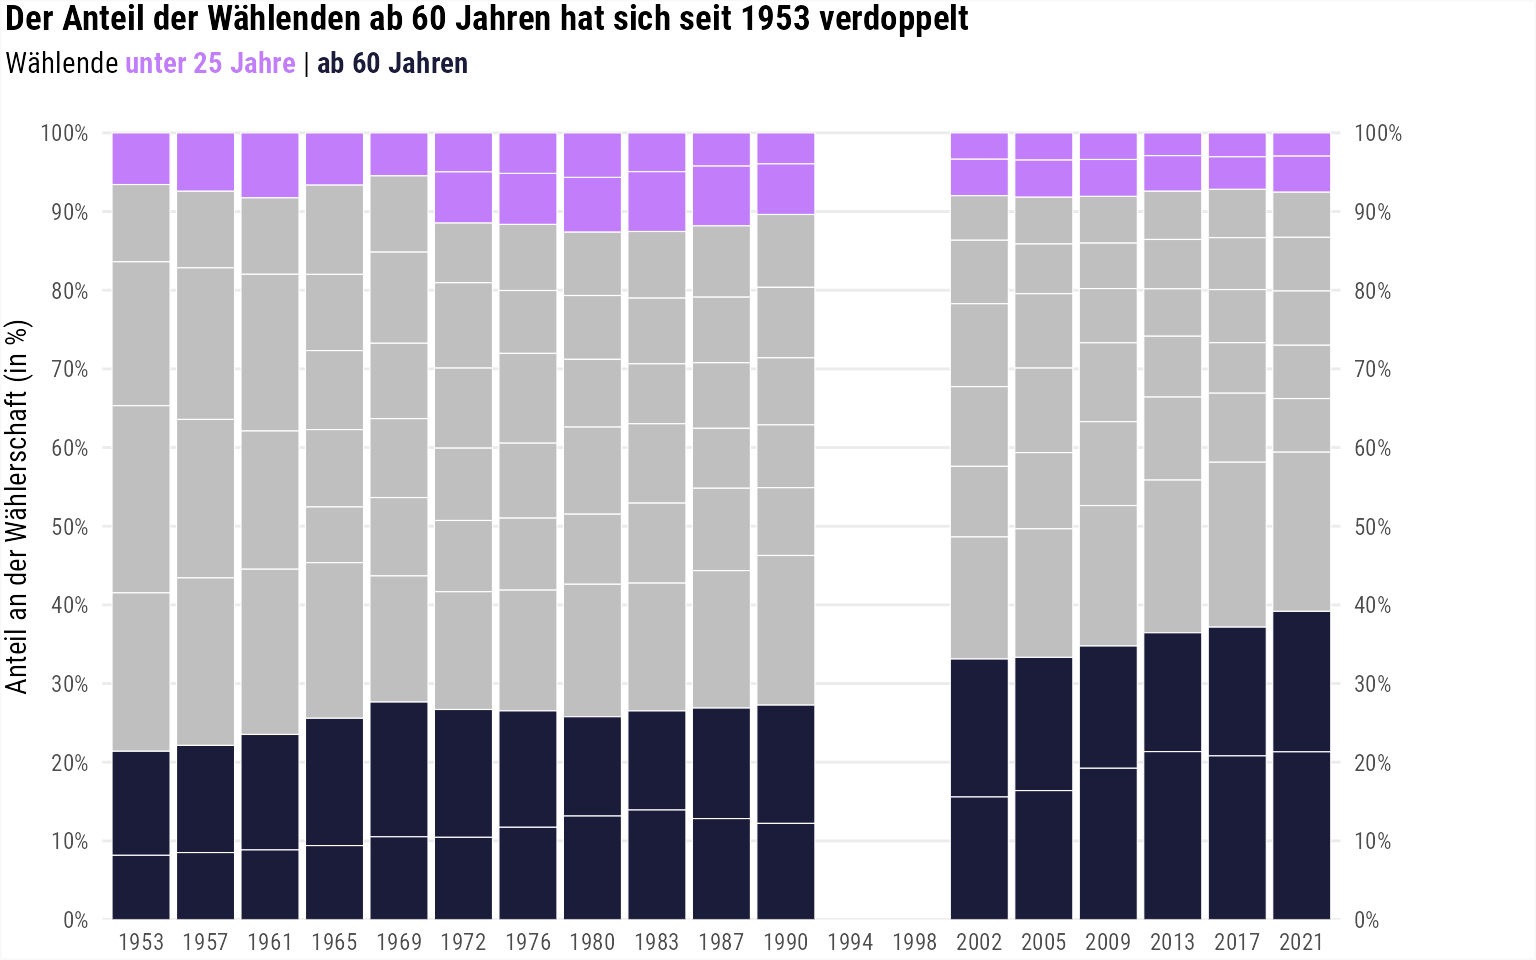
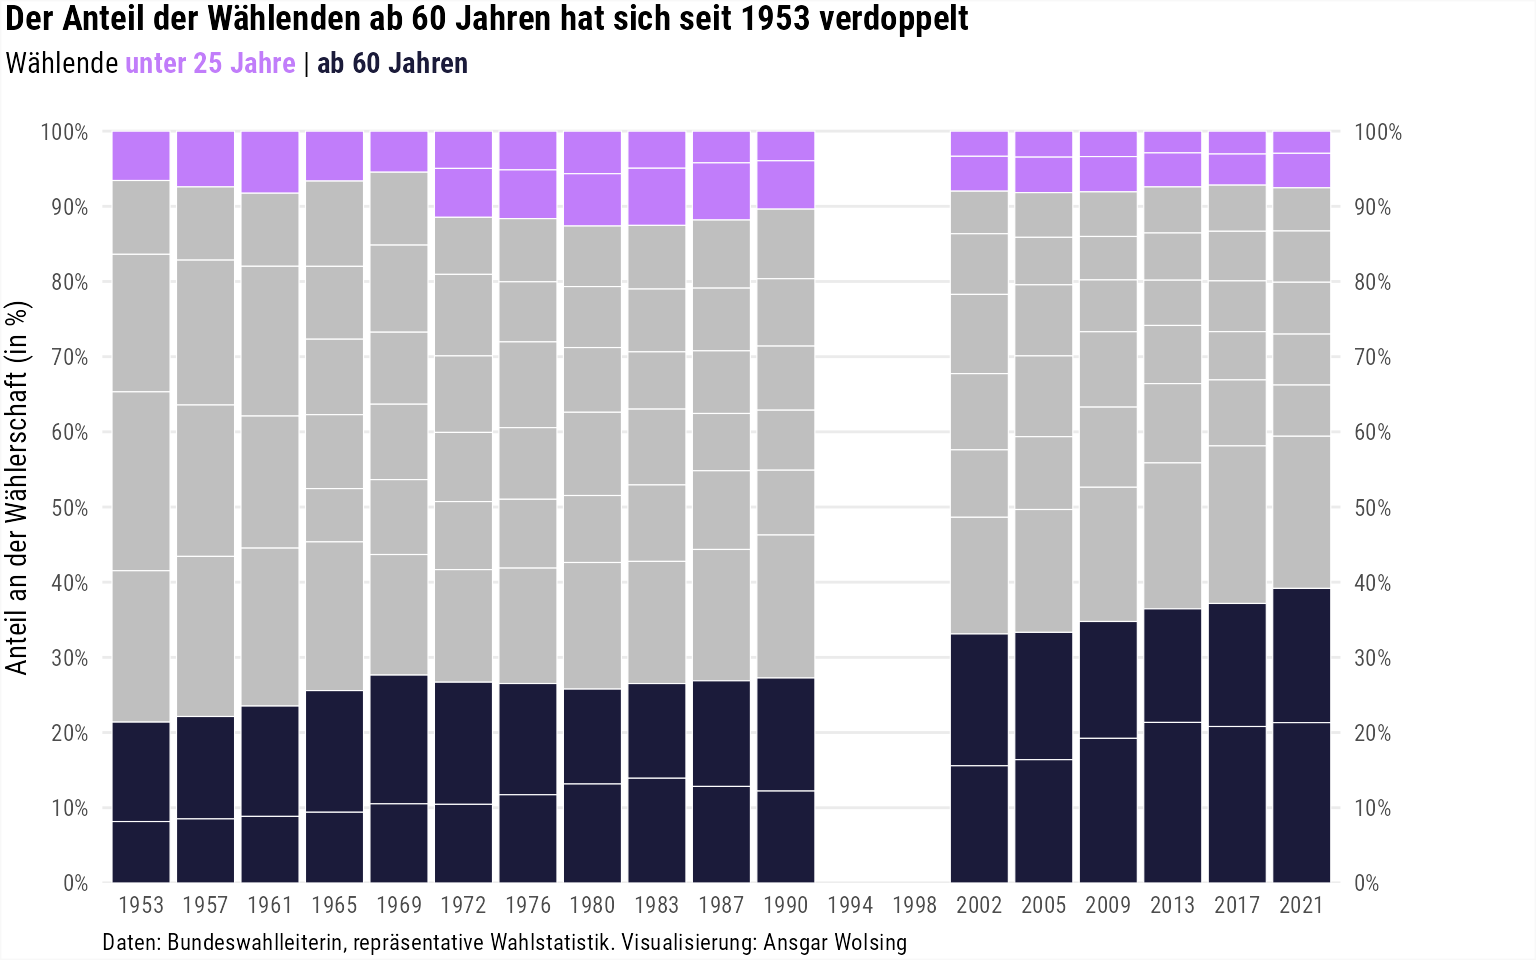
Titel + Theme

diff --git a/01-wahlbeteiligung/01-wahlbeteiligung.html b/01-wahlbeteiligung/01-wahlbeteiligung.html
@@ -157,7 +157,8 @@ pre > code.sourceCode > span > a:first-child::before { text-decoration: underlin
 <span id="cb3-16"><a href="#cb3-16" aria-hidden="true" tabindex="-1"></a>    <span class="at">linewidth =</span> <span class="fl">2.5</span>, <span class="at">lineend =</span> <span class="st">"square"</span></span>
 <span id="cb3-17"><a href="#cb3-17" aria-hidden="true" tabindex="-1"></a>  ) <span class="sc">+</span></span>
 <span id="cb3-18"><a href="#cb3-18" aria-hidden="true" tabindex="-1"></a>  <span class="fu">scale_color_gradient</span>(<span class="at">low =</span> <span class="st">"grey2"</span>, <span class="at">high =</span> <span class="st">"grey90"</span>) <span class="sc">+</span></span>
-<span id="cb3-19"><a href="#cb3-19" aria-hidden="true" tabindex="-1"></a>  <span class="fu">guides</span>(<span class="at">color =</span> <span class="st">"none"</span>)</span></code><button title="Copy to Clipboard" class="code-copy-button"><i class="bi"></i></button></pre></div>
+<span id="cb3-19"><a href="#cb3-19" aria-hidden="true" tabindex="-1"></a>  <span class="fu">guides</span>(<span class="at">color =</span> <span class="st">"none"</span>) <span class="sc">+</span></span>
+<span id="cb3-20"><a href="#cb3-20" aria-hidden="true" tabindex="-1"></a>  <span class="fu">labs</span>(<span class="at">x =</span> <span class="st">"Alter"</span>)</span></code><button title="Copy to Clipboard" class="code-copy-button"><i class="bi"></i></button></pre></div>
 </details>
 <div class="cell-output-display">
 <div>
@@ -211,8 +212,9 @@ pre > code.sourceCode > span > a:first-child::before { text-decoration: underlin
 <span id="cb5-24"><a href="#cb5-24" aria-hidden="true" tabindex="-1"></a>    <span class="at">subtitle =</span> <span class="st">"Wahlbeteiligung nach Altersgruppe und Geschlecht"</span>,</span>
 <span id="cb5-25"><a href="#cb5-25" aria-hidden="true" tabindex="-1"></a>    <span class="at">x =</span> <span class="st">"Altersgruppe"</span>,</span>
 <span id="cb5-26"><a href="#cb5-26" aria-hidden="true" tabindex="-1"></a>    <span class="at">y =</span> <span class="st">"Wahlbeteiligung (in %)"</span>,</span>
-<span id="cb5-27"><a href="#cb5-27" aria-hidden="true" tabindex="-1"></a>    <span class="at">fill =</span> <span class="st">"Geschlecht"</span></span>
-<span id="cb5-28"><a href="#cb5-28" aria-hidden="true" tabindex="-1"></a>  )</span></code><button title="Copy to Clipboard" class="code-copy-button"><i class="bi"></i></button></pre></div>
+<span id="cb5-27"><a href="#cb5-27" aria-hidden="true" tabindex="-1"></a>    <span class="at">fill =</span> <span class="st">"Geschlecht"</span>,</span>
+<span id="cb5-28"><a href="#cb5-28" aria-hidden="true" tabindex="-1"></a>    <span class="at">caption =</span> <span class="st">"Daten: Bundeswahlleiterin, repräsentative Wahlstatistik. Visualisierung: Ansgar Wolsing"</span></span>
+<span id="cb5-29"><a href="#cb5-29" aria-hidden="true" tabindex="-1"></a>  )</span></code><button title="Copy to Clipboard" class="code-copy-button"><i class="bi"></i></button></pre></div>
 </details>
 <div class="cell-output-display">
 <div>
@@ -253,8 +255,9 @@ pre > code.sourceCode > span > a:first-child::before { text-decoration: underlin
 <span id="cb6-25"><a href="#cb6-25" aria-hidden="true" tabindex="-1"></a>    <span class="at">subtitle =</span> <span class="st">"Wahlbeteiligung nach Altersgruppe und Geschlecht"</span>,</span>
 <span id="cb6-26"><a href="#cb6-26" aria-hidden="true" tabindex="-1"></a>    <span class="at">x =</span> <span class="st">"Altersgruppe"</span>,</span>
 <span id="cb6-27"><a href="#cb6-27" aria-hidden="true" tabindex="-1"></a>    <span class="at">y =</span> <span class="st">"Wahlbeteiligung (in %)"</span>,</span>
-<span id="cb6-28"><a href="#cb6-28" aria-hidden="true" tabindex="-1"></a>    <span class="at">fill =</span> <span class="st">"Geschlecht"</span></span>
-<span id="cb6-29"><a href="#cb6-29" aria-hidden="true" tabindex="-1"></a>  )</span></code><button title="Copy to Clipboard" class="code-copy-button"><i class="bi"></i></button></pre></div>
+<span id="cb6-28"><a href="#cb6-28" aria-hidden="true" tabindex="-1"></a>    <span class="at">fill =</span> <span class="st">"Geschlecht"</span>,</span>
+<span id="cb6-29"><a href="#cb6-29" aria-hidden="true" tabindex="-1"></a>    <span class="at">caption =</span> <span class="st">"Daten: Bundeswahlleiterin, repräsentative Wahlstatistik. Visualisierung: Ansgar Wolsing"</span></span>
+<span id="cb6-30"><a href="#cb6-30" aria-hidden="true" tabindex="-1"></a>  )</span></code><button title="Copy to Clipboard" class="code-copy-button"><i class="bi"></i></button></pre></div>
 </details>
 <div class="cell-output-display">
 <div>
@@ -269,26 +272,26 @@ pre > code.sourceCode > span > a:first-child::before { text-decoration: underlin
 <summary>Code</summary>
 <div class="sourceCode cell-code" id="cb7"><pre class="sourceCode r code-with-copy"><code class="sourceCode r"><span id="cb7-1"><a href="#cb7-1" aria-hidden="true" tabindex="-1"></a>p <span class="ot">&lt;-</span> df_wbt_total_ab1972 <span class="sc">|&gt;</span> </span>
 <span id="cb7-2"><a href="#cb7-2" aria-hidden="true" tabindex="-1"></a>  <span class="fu">filter</span>(altersgruppe <span class="sc">!=</span> <span class="st">"Summe"</span>, geschlecht <span class="sc">==</span> <span class="st">"Summe"</span>) <span class="sc">|&gt;</span> </span>
-<span id="cb7-3"><a href="#cb7-3" aria-hidden="true" tabindex="-1"></a>  <span class="co"># mutate(wahl = factor(wahl)) |&gt; </span></span>
-<span id="cb7-4"><a href="#cb7-4" aria-hidden="true" tabindex="-1"></a>  <span class="fu">ggplot</span>(<span class="fu">aes</span>(altersgruppe, wahlbeteiligung, <span class="at">group =</span> wahl)) <span class="sc">+</span></span>
-<span id="cb7-5"><a href="#cb7-5" aria-hidden="true" tabindex="-1"></a>  <span class="fu">geom_line</span>(<span class="at">color =</span> <span class="st">"purple"</span>, <span class="at">linewidth =</span> <span class="fl">1.2</span>) <span class="sc">+</span></span>
-<span id="cb7-6"><a href="#cb7-6" aria-hidden="true" tabindex="-1"></a>  <span class="fu">geom_point</span>(</span>
-<span id="cb7-7"><a href="#cb7-7" aria-hidden="true" tabindex="-1"></a>    <span class="at">shape =</span> <span class="dv">21</span>, <span class="at">fill =</span> <span class="st">"white"</span>, <span class="at">color =</span> <span class="st">"purple"</span></span>
-<span id="cb7-8"><a href="#cb7-8" aria-hidden="true" tabindex="-1"></a>  ) <span class="sc">+</span></span>
-<span id="cb7-9"><a href="#cb7-9" aria-hidden="true" tabindex="-1"></a>  <span class="fu">geom_text</span>(</span>
-<span id="cb7-10"><a href="#cb7-10" aria-hidden="true" tabindex="-1"></a>    <span class="at">data =</span> <span class="sc">~</span><span class="fu">subset</span>(., altersgruppe <span class="sc">==</span> <span class="fu">max</span>(altersgruppe)),</span>
-<span id="cb7-11"><a href="#cb7-11" aria-hidden="true" tabindex="-1"></a>    <span class="fu">aes</span>(<span class="at">x =</span> altersgruppe, </span>
-<span id="cb7-12"><a href="#cb7-12" aria-hidden="true" tabindex="-1"></a>        <span class="at">y =</span> wahlbeteiligung,</span>
-<span id="cb7-13"><a href="#cb7-13" aria-hidden="true" tabindex="-1"></a>        <span class="at">label =</span> wahl), </span>
-<span id="cb7-14"><a href="#cb7-14" aria-hidden="true" tabindex="-1"></a>    <span class="at">color =</span> <span class="st">"purple"</span>, <span class="at">hjust =</span> <span class="dv">0</span>, <span class="at">nudge_x =</span> <span class="fl">0.1</span>, <span class="at">family =</span> <span class="st">"Roboto Condensed"</span>, <span class="at">size =</span> <span class="dv">5</span>,</span>
-<span id="cb7-15"><a href="#cb7-15" aria-hidden="true" tabindex="-1"></a>    <span class="at">fontface =</span> <span class="st">"bold"</span></span>
-<span id="cb7-16"><a href="#cb7-16" aria-hidden="true" tabindex="-1"></a>  ) <span class="sc">+</span></span>
-<span id="cb7-17"><a href="#cb7-17" aria-hidden="true" tabindex="-1"></a>  <span class="fu">scale_x_discrete</span>(<span class="at">position =</span> <span class="st">"top"</span>, <span class="at">expand =</span> <span class="fu">expansion</span>(<span class="at">add =</span> <span class="fu">c</span>(<span class="fl">0.3</span>, <span class="fl">0.8</span>))) <span class="sc">+</span></span>
-<span id="cb7-18"><a href="#cb7-18" aria-hidden="true" tabindex="-1"></a>  <span class="fu">scale_y_continuous</span>(<span class="at">labels =</span> <span class="cf">function</span>(x) <span class="fu">paste</span>(x, <span class="st">"%"</span>)) <span class="sc">+</span></span>
-<span id="cb7-19"><a href="#cb7-19" aria-hidden="true" tabindex="-1"></a>  <span class="fu">coord_cartesian</span>(<span class="at">clip =</span> <span class="st">"off"</span>) <span class="sc">+</span></span>
-<span id="cb7-20"><a href="#cb7-20" aria-hidden="true" tabindex="-1"></a>  <span class="fu">labs</span>(</span>
-<span id="cb7-21"><a href="#cb7-21" aria-hidden="true" tabindex="-1"></a>    <span class="at">x =</span> <span class="st">"Altersgruppe"</span>,</span>
-<span id="cb7-22"><a href="#cb7-22" aria-hidden="true" tabindex="-1"></a>    <span class="at">y =</span> <span class="st">"Wahlbeteiligung (in %)"</span>,</span>
+<span id="cb7-3"><a href="#cb7-3" aria-hidden="true" tabindex="-1"></a>  <span class="fu">ggplot</span>(<span class="fu">aes</span>(altersgruppe, wahlbeteiligung, <span class="at">group =</span> wahl)) <span class="sc">+</span></span>
+<span id="cb7-4"><a href="#cb7-4" aria-hidden="true" tabindex="-1"></a>  <span class="fu">geom_line</span>(<span class="at">color =</span> color_pal[<span class="dv">1</span>], <span class="at">linewidth =</span> <span class="fl">1.2</span>) <span class="sc">+</span></span>
+<span id="cb7-5"><a href="#cb7-5" aria-hidden="true" tabindex="-1"></a>  <span class="fu">geom_point</span>(</span>
+<span id="cb7-6"><a href="#cb7-6" aria-hidden="true" tabindex="-1"></a>    <span class="at">shape =</span> <span class="dv">21</span>, <span class="at">fill =</span> <span class="st">"white"</span>, <span class="at">color =</span> color_pal[<span class="dv">1</span>]</span>
+<span id="cb7-7"><a href="#cb7-7" aria-hidden="true" tabindex="-1"></a>  ) <span class="sc">+</span></span>
+<span id="cb7-8"><a href="#cb7-8" aria-hidden="true" tabindex="-1"></a>  <span class="fu">geom_text</span>(</span>
+<span id="cb7-9"><a href="#cb7-9" aria-hidden="true" tabindex="-1"></a>    <span class="at">data =</span> <span class="sc">~</span><span class="fu">subset</span>(., altersgruppe <span class="sc">==</span> <span class="fu">max</span>(altersgruppe)),</span>
+<span id="cb7-10"><a href="#cb7-10" aria-hidden="true" tabindex="-1"></a>    <span class="fu">aes</span>(<span class="at">x =</span> altersgruppe, </span>
+<span id="cb7-11"><a href="#cb7-11" aria-hidden="true" tabindex="-1"></a>        <span class="at">y =</span> wahlbeteiligung,</span>
+<span id="cb7-12"><a href="#cb7-12" aria-hidden="true" tabindex="-1"></a>        <span class="at">label =</span> wahl), </span>
+<span id="cb7-13"><a href="#cb7-13" aria-hidden="true" tabindex="-1"></a>    <span class="at">color =</span> color_pal[<span class="dv">1</span>], <span class="at">hjust =</span> <span class="dv">0</span>, <span class="at">nudge_x =</span> <span class="fl">0.1</span>, <span class="at">family =</span> <span class="st">"Roboto Condensed"</span>, <span class="at">size =</span> <span class="dv">5</span>,</span>
+<span id="cb7-14"><a href="#cb7-14" aria-hidden="true" tabindex="-1"></a>    <span class="at">fontface =</span> <span class="st">"bold"</span></span>
+<span id="cb7-15"><a href="#cb7-15" aria-hidden="true" tabindex="-1"></a>  ) <span class="sc">+</span></span>
+<span id="cb7-16"><a href="#cb7-16" aria-hidden="true" tabindex="-1"></a>  <span class="fu">scale_x_discrete</span>(<span class="at">position =</span> <span class="st">"top"</span>, <span class="at">expand =</span> <span class="fu">expansion</span>(<span class="at">add =</span> <span class="fu">c</span>(<span class="fl">0.3</span>, <span class="fl">0.8</span>))) <span class="sc">+</span></span>
+<span id="cb7-17"><a href="#cb7-17" aria-hidden="true" tabindex="-1"></a>  <span class="fu">scale_y_continuous</span>(<span class="at">labels =</span> <span class="cf">function</span>(x) <span class="fu">paste</span>(x, <span class="st">"%"</span>)) <span class="sc">+</span></span>
+<span id="cb7-18"><a href="#cb7-18" aria-hidden="true" tabindex="-1"></a>  <span class="fu">coord_cartesian</span>(<span class="at">clip =</span> <span class="st">"off"</span>) <span class="sc">+</span></span>
+<span id="cb7-19"><a href="#cb7-19" aria-hidden="true" tabindex="-1"></a>  <span class="fu">labs</span>(</span>
+<span id="cb7-20"><a href="#cb7-20" aria-hidden="true" tabindex="-1"></a>    <span class="at">x =</span> <span class="st">"Altersgruppe"</span>,</span>
+<span id="cb7-21"><a href="#cb7-21" aria-hidden="true" tabindex="-1"></a>    <span class="at">y =</span> <span class="st">"Wahlbeteiligung (in %)"</span>,</span>
+<span id="cb7-22"><a href="#cb7-22" aria-hidden="true" tabindex="-1"></a>    <span class="at">caption =</span> <span class="st">"Daten: Bundeswahlleiterin, repräsentative Wahlstatistik. Visualisierung: Ansgar Wolsing"</span></span>
 <span id="cb7-23"><a href="#cb7-23" aria-hidden="true" tabindex="-1"></a>  ) <span class="sc">+</span> </span>
 <span id="cb7-24"><a href="#cb7-24" aria-hidden="true" tabindex="-1"></a>  <span class="fu">theme_custom_gif</span>()</span>
 <span id="cb7-25"><a href="#cb7-25" aria-hidden="true" tabindex="-1"></a></span>
@@ -349,22 +352,24 @@ pre > code.sourceCode > span > a:first-child::before { text-decoration: underlin
 <span id="cb8-32"><a href="#cb8-32" aria-hidden="true" tabindex="-1"></a>  <span class="fu">coord_cartesian</span>(<span class="at">ylim =</span> <span class="fu">c</span>(<span class="dv">50</span>, <span class="dv">100</span>), <span class="at">clip =</span> <span class="st">"off"</span>) <span class="sc">+</span></span>
 <span id="cb8-33"><a href="#cb8-33" aria-hidden="true" tabindex="-1"></a>  <span class="fu">guides</span>(<span class="at">color =</span> <span class="st">"none"</span>) <span class="sc">+</span></span>
 <span id="cb8-34"><a href="#cb8-34" aria-hidden="true" tabindex="-1"></a>  <span class="fu">labs</span>(</span>
-<span id="cb8-35"><a href="#cb8-35" aria-hidden="true" tabindex="-1"></a>    <span class="at">x =</span> <span class="st">"Altersgruppe"</span>,</span>
-<span id="cb8-36"><a href="#cb8-36" aria-hidden="true" tabindex="-1"></a>    <span class="at">y =</span> <span class="st">"Wahlbeteiligung (in %)"</span>,</span>
-<span id="cb8-37"><a href="#cb8-37" aria-hidden="true" tabindex="-1"></a>  ) <span class="sc">+</span></span>
-<span id="cb8-38"><a href="#cb8-38" aria-hidden="true" tabindex="-1"></a>  <span class="fu">theme_custom_gif</span>()</span>
-<span id="cb8-39"><a href="#cb8-39" aria-hidden="true" tabindex="-1"></a></span>
-<span id="cb8-40"><a href="#cb8-40" aria-hidden="true" tabindex="-1"></a>p_anim <span class="ot">&lt;-</span> p <span class="sc">+</span></span>
-<span id="cb8-41"><a href="#cb8-41" aria-hidden="true" tabindex="-1"></a>  <span class="fu">transition_states</span>(wahl) <span class="sc">+</span></span>
-<span id="cb8-42"><a href="#cb8-42" aria-hidden="true" tabindex="-1"></a>  <span class="fu">shadow_mark</span>(<span class="at">past =</span> <span class="cn">TRUE</span>, <span class="at">future =</span> <span class="cn">FALSE</span>, </span>
-<span id="cb8-43"><a href="#cb8-43" aria-hidden="true" tabindex="-1"></a>              <span class="at">alpha =</span> <span class="fl">0.2</span>, <span class="at">linewidth =</span> <span class="fl">0.33</span>, </span>
-<span id="cb8-44"><a href="#cb8-44" aria-hidden="true" tabindex="-1"></a>              <span class="co"># Jahreszahlen nicht mitführen</span></span>
-<span id="cb8-45"><a href="#cb8-45" aria-hidden="true" tabindex="-1"></a>              <span class="at">exclude_layer =</span> <span class="fu">c</span>(<span class="dv">2</span>, <span class="dv">3</span>, <span class="dv">4</span>))</span>
-<span id="cb8-46"><a href="#cb8-46" aria-hidden="true" tabindex="-1"></a></span>
-<span id="cb8-47"><a href="#cb8-47" aria-hidden="true" tabindex="-1"></a></span>
-<span id="cb8-48"><a href="#cb8-48" aria-hidden="true" tabindex="-1"></a>n_wahlen <span class="ot">&lt;-</span> <span class="fu">length</span>(<span class="fu">unique</span>(df_wbt_total_ab1972<span class="sc">$</span>wahl))</span>
+<span id="cb8-35"><a href="#cb8-35" aria-hidden="true" tabindex="-1"></a>    <span class="at">title =</span> <span class="st">"Wahlbeteiligung nach Geschlecht und Altersgruppe"</span>,</span>
+<span id="cb8-36"><a href="#cb8-36" aria-hidden="true" tabindex="-1"></a>    <span class="at">caption =</span> <span class="st">"Daten: Bundeswahlleiterin, repräsentative Wahlstatistik. Visualisierung: Ansgar Wolsing"</span>,</span>
+<span id="cb8-37"><a href="#cb8-37" aria-hidden="true" tabindex="-1"></a>    <span class="at">x =</span> <span class="st">"Altersgruppe"</span>,</span>
+<span id="cb8-38"><a href="#cb8-38" aria-hidden="true" tabindex="-1"></a>    <span class="at">y =</span> <span class="st">"Wahlbeteiligung (in %)"</span>,</span>
+<span id="cb8-39"><a href="#cb8-39" aria-hidden="true" tabindex="-1"></a>  ) <span class="sc">+</span></span>
+<span id="cb8-40"><a href="#cb8-40" aria-hidden="true" tabindex="-1"></a>  <span class="fu">theme_custom_gif</span>()</span>
+<span id="cb8-41"><a href="#cb8-41" aria-hidden="true" tabindex="-1"></a></span>
+<span id="cb8-42"><a href="#cb8-42" aria-hidden="true" tabindex="-1"></a>p_anim <span class="ot">&lt;-</span> p <span class="sc">+</span></span>
+<span id="cb8-43"><a href="#cb8-43" aria-hidden="true" tabindex="-1"></a>  <span class="fu">transition_states</span>(wahl) <span class="sc">+</span></span>
+<span id="cb8-44"><a href="#cb8-44" aria-hidden="true" tabindex="-1"></a>  <span class="fu">shadow_mark</span>(<span class="at">past =</span> <span class="cn">TRUE</span>, <span class="at">future =</span> <span class="cn">FALSE</span>, </span>
+<span id="cb8-45"><a href="#cb8-45" aria-hidden="true" tabindex="-1"></a>              <span class="at">alpha =</span> <span class="fl">0.2</span>, <span class="at">linewidth =</span> <span class="fl">0.33</span>, </span>
+<span id="cb8-46"><a href="#cb8-46" aria-hidden="true" tabindex="-1"></a>              <span class="co"># Jahreszahlen nicht mitführen</span></span>
+<span id="cb8-47"><a href="#cb8-47" aria-hidden="true" tabindex="-1"></a>              <span class="at">exclude_layer =</span> <span class="fu">c</span>(<span class="dv">2</span>, <span class="dv">3</span>, <span class="dv">4</span>))</span>
+<span id="cb8-48"><a href="#cb8-48" aria-hidden="true" tabindex="-1"></a></span>
 <span id="cb8-49"><a href="#cb8-49" aria-hidden="true" tabindex="-1"></a></span>
-<span id="cb8-50"><a href="#cb8-50" aria-hidden="true" tabindex="-1"></a><span class="fu">animate</span>(p_anim, <span class="at">fps =</span> <span class="dv">10</span>, <span class="at">nframes =</span> <span class="dv">100</span>, <span class="at">end_pause =</span> <span class="dv">12</span>, <span class="at">rewind =</span> <span class="cn">FALSE</span>)</span></code><button title="Copy to Clipboard" class="code-copy-button"><i class="bi"></i></button></pre></div>
+<span id="cb8-50"><a href="#cb8-50" aria-hidden="true" tabindex="-1"></a>n_wahlen <span class="ot">&lt;-</span> <span class="fu">length</span>(<span class="fu">unique</span>(df_wbt_total_ab1972<span class="sc">$</span>wahl))</span>
+<span id="cb8-51"><a href="#cb8-51" aria-hidden="true" tabindex="-1"></a></span>
+<span id="cb8-52"><a href="#cb8-52" aria-hidden="true" tabindex="-1"></a><span class="fu">animate</span>(p_anim, <span class="at">fps =</span> <span class="dv">10</span>, <span class="at">nframes =</span> <span class="dv">100</span>, <span class="at">end_pause =</span> <span class="dv">12</span>, <span class="at">rewind =</span> <span class="cn">FALSE</span>)</span></code><button title="Copy to Clipboard" class="code-copy-button"><i class="bi"></i></button></pre></div>
 </details>
 <div class="cell-output-display">
 <div>
@@ -428,15 +433,16 @@ pre > code.sourceCode > span > a:first-child::before { text-decoration: underlin
 <span id="cb10-28"><a href="#cb10-28" aria-hidden="true" tabindex="-1"></a>  <span class="fu">labs</span>(</span>
 <span id="cb10-29"><a href="#cb10-29" aria-hidden="true" tabindex="-1"></a>    <span class="at">title =</span> <span class="st">"Der Anteil der Wählenden ab 60 Jahren hat sich seit 1953 verdoppelt"</span>,</span>
 <span id="cb10-30"><a href="#cb10-30" aria-hidden="true" tabindex="-1"></a>    <span class="at">subtitle =</span> <span class="fu">sprintf</span>(<span class="st">"Wählende &lt;b style='color:%s'&gt;unter 25 Jahre&lt;/b&gt; | &lt;b style='color:%s'&gt;ab 60 Jahren&lt;/b&gt;"</span>, color_pal[<span class="dv">3</span>], color_pal[<span class="dv">1</span>]),</span>
-<span id="cb10-31"><a href="#cb10-31" aria-hidden="true" tabindex="-1"></a>    <span class="at">x =</span> <span class="cn">NULL</span>,</span>
-<span id="cb10-32"><a href="#cb10-32" aria-hidden="true" tabindex="-1"></a>    <span class="at">y =</span> <span class="st">"Anteil an der Wählerschaft (in %)"</span>,</span>
-<span id="cb10-33"><a href="#cb10-33" aria-hidden="true" tabindex="-1"></a>  ) <span class="sc">+</span> </span>
-<span id="cb10-34"><a href="#cb10-34" aria-hidden="true" tabindex="-1"></a>  <span class="fu">theme</span>(</span>
-<span id="cb10-35"><a href="#cb10-35" aria-hidden="true" tabindex="-1"></a>    <span class="at">legend.position =</span> <span class="st">"bottom"</span>,</span>
-<span id="cb10-36"><a href="#cb10-36" aria-hidden="true" tabindex="-1"></a>    <span class="at">panel.grid.major.x =</span> <span class="fu">element_blank</span>(),</span>
-<span id="cb10-37"><a href="#cb10-37" aria-hidden="true" tabindex="-1"></a>    <span class="at">panel.grid.minor =</span> <span class="fu">element_blank</span>(),</span>
-<span id="cb10-38"><a href="#cb10-38" aria-hidden="true" tabindex="-1"></a>    <span class="at">axis.title.y.right =</span> <span class="fu">element_blank</span>()</span>
-<span id="cb10-39"><a href="#cb10-39" aria-hidden="true" tabindex="-1"></a>  )</span></code><button title="Copy to Clipboard" class="code-copy-button"><i class="bi"></i></button></pre></div>
+<span id="cb10-31"><a href="#cb10-31" aria-hidden="true" tabindex="-1"></a>    <span class="at">caption =</span> <span class="st">"Daten: Bundeswahlleiterin, repräsentative Wahlstatistik. Visualisierung: Ansgar Wolsing"</span>,</span>
+<span id="cb10-32"><a href="#cb10-32" aria-hidden="true" tabindex="-1"></a>    <span class="at">x =</span> <span class="cn">NULL</span>,</span>
+<span id="cb10-33"><a href="#cb10-33" aria-hidden="true" tabindex="-1"></a>    <span class="at">y =</span> <span class="st">"Anteil an der Wählerschaft (in %)"</span>,</span>
+<span id="cb10-34"><a href="#cb10-34" aria-hidden="true" tabindex="-1"></a>  ) <span class="sc">+</span> </span>
+<span id="cb10-35"><a href="#cb10-35" aria-hidden="true" tabindex="-1"></a>  <span class="fu">theme</span>(</span>
+<span id="cb10-36"><a href="#cb10-36" aria-hidden="true" tabindex="-1"></a>    <span class="at">legend.position =</span> <span class="st">"bottom"</span>,</span>
+<span id="cb10-37"><a href="#cb10-37" aria-hidden="true" tabindex="-1"></a>    <span class="at">panel.grid.major.x =</span> <span class="fu">element_blank</span>(),</span>
+<span id="cb10-38"><a href="#cb10-38" aria-hidden="true" tabindex="-1"></a>    <span class="at">panel.grid.minor =</span> <span class="fu">element_blank</span>(),</span>
+<span id="cb10-39"><a href="#cb10-39" aria-hidden="true" tabindex="-1"></a>    <span class="at">axis.title.y.right =</span> <span class="fu">element_blank</span>()</span>
+<span id="cb10-40"><a href="#cb10-40" aria-hidden="true" tabindex="-1"></a>  )</span></code><button title="Copy to Clipboard" class="code-copy-button"><i class="bi"></i></button></pre></div>
 </details>
 <div class="cell-output-display">
 <div>
